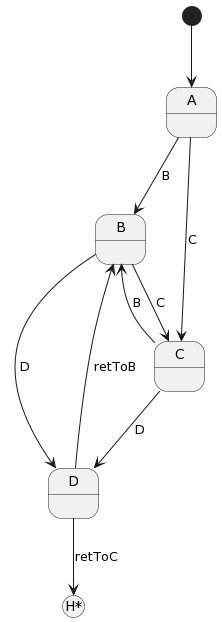
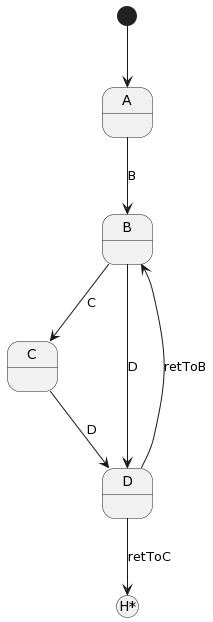
u

diff --git a/intermediate_frame/history.rst b/intermediate_frame/history.rst
@@ -217,66 +217,75 @@ versus returning to it using the history mechanisms.
 .. code-block::
     :caption: History 104 Demo 
 
-    fn main {
-        var sys:# = #History104()
-        sys.gotoB()
-        sys.gotoD()
-        sys.ret()
-        sys.gotoC()
-        sys.gotoD()
-        sys.ret()
-    }
+fn main {
+    var sys:# = #History104()
+    print("--------------")
+    sys.gotoB()
+    sys.gotoD()
+    sys.retToB()
+    sys.gotoC()
+    sys.gotoD()
+    sys.retToC()
+    print("--------------")
+}
 
-    #History104
+#History104
 
-        -interface-
+    -interface-
 
-        gotoB
-        gotoC
-        gotoD
-        ret
+    gotoB
+    retToB
+    gotoC
+    retToC
+    gotoD
 
+    -machine-
 
-        -machine-
+    $A
+        |>| print("In $A") ^
+        |gotoB| -> "B" $B ^
 
-        $A
-            |>| print("In $A") ^
-            |gotoB| -> "B" $B ^
-            |gotoC| -> "C" $C ^
+    $B
+        var b = 0
 
-        $B
-            var b = 0
+        // upon reentry using a transition, b == 0
+        |>| print("Entering $B. b = " + str(b)) ^
 
-            |>| print("Entering $B. b = " + str(b)) ^
+        |gotoC| 
+            print("--------------")
+            print("Going to $C.")
+            print("--------------")
+            -> "C" $C ^
+        |gotoD|
+            b = 1
+            print("Going to $D. b = " + str(b))
+            -> "D" $D ^
 
-            |gotoC| -> "C" $C ^
-            |gotoD|
-                b = 1
-                print("Going to $D. b = " + str(b))
-                $$[+]  -> "D" $D ^
+    $C
+        var c = 0
 
-        $C
-            var c = 0
+        // upon reentry using history pop, c == 1
+        |>| print("Entering $C. c = " + str(c)) ^
 
-            |>| print("Entering $C. c = " + str(c)) ^
+        |gotoD|
+            c = 1
+            print("Going to $D. c = " + str(c))
+            $$[+]  -> "D" $D ^
 
-            |gotoB| -> "B" $B ^
-            |gotoD|
-                c = 1
-                print("Going to $D. c = " + str(c))
-                $$[+]  -> "D" $D ^
+    $D
+        |>| print("In $D") ^
+        |retToB|
+            print("Returning to $B")
+            -> "retToB" $B ^
+        |retToC|
+            print("Returning to $C")
+            -> "retToC" $$[-] ^
 
-        $D
-            |>| print("In $D") ^
-            |ret|
-                print("returning to ...")
-                -> "ret" $$[-] ^
-
-    ##
+##
 
 .. image:: images/history104.png
 
-Run the `program <https://onlinegdb.com/QTa13Oozk>`_. 
+Run the `program <https://onlinegdb.com/GWZya9TRJ>`_. 
 
 The program generates the following output:
 
@@ -284,16 +293,21 @@ The program generates the following output:
     :caption: History 104 Demo Output
 
     In $A
+    --------------
     Entering $B. b = 0
     Going to $D. b = 1
     In $D
     Returning to $B
     Entering $B. b = 0
+    --------------
+    Going to $C.
+    --------------
     Entering $C. c = 0
     Going to $D. c = 1
     In $D
     Returning to $C
     Entering $C. c = 1
+    --------------
 
 Notice these lines in particular:
 
